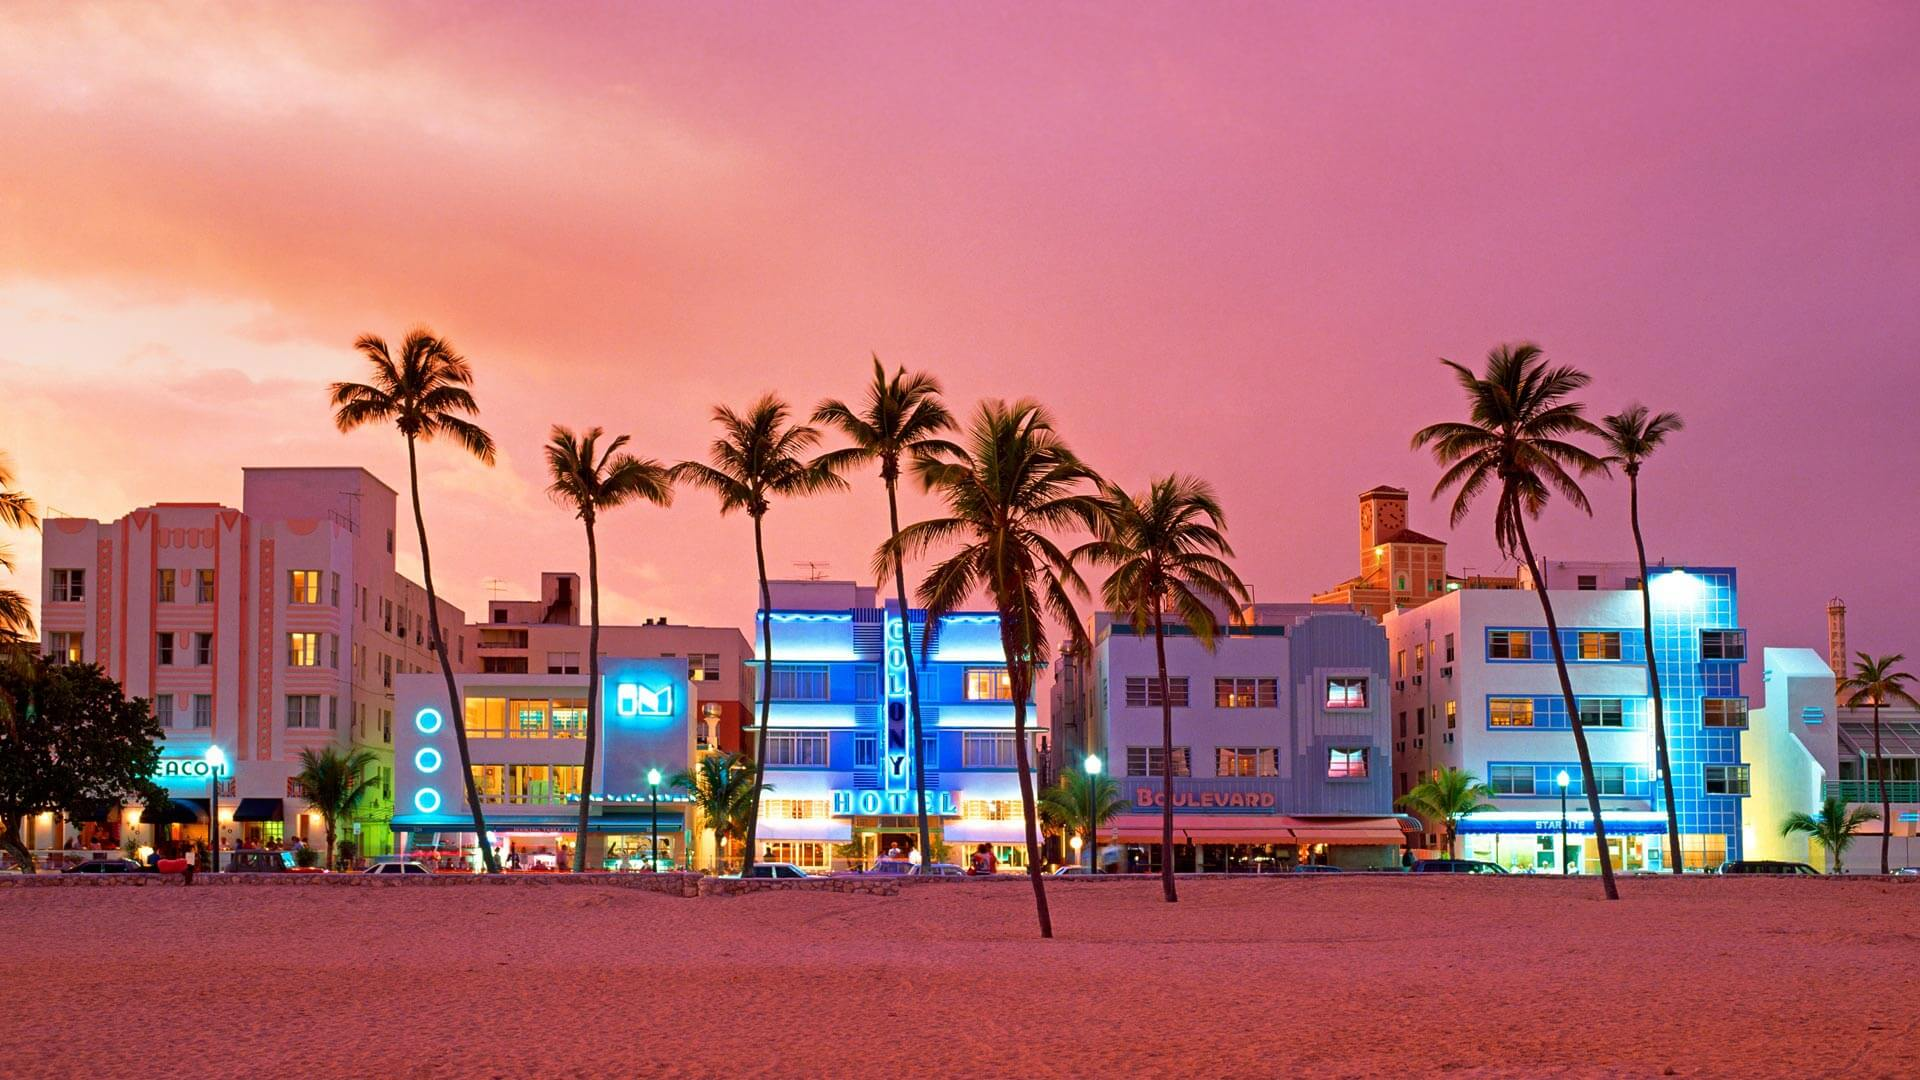
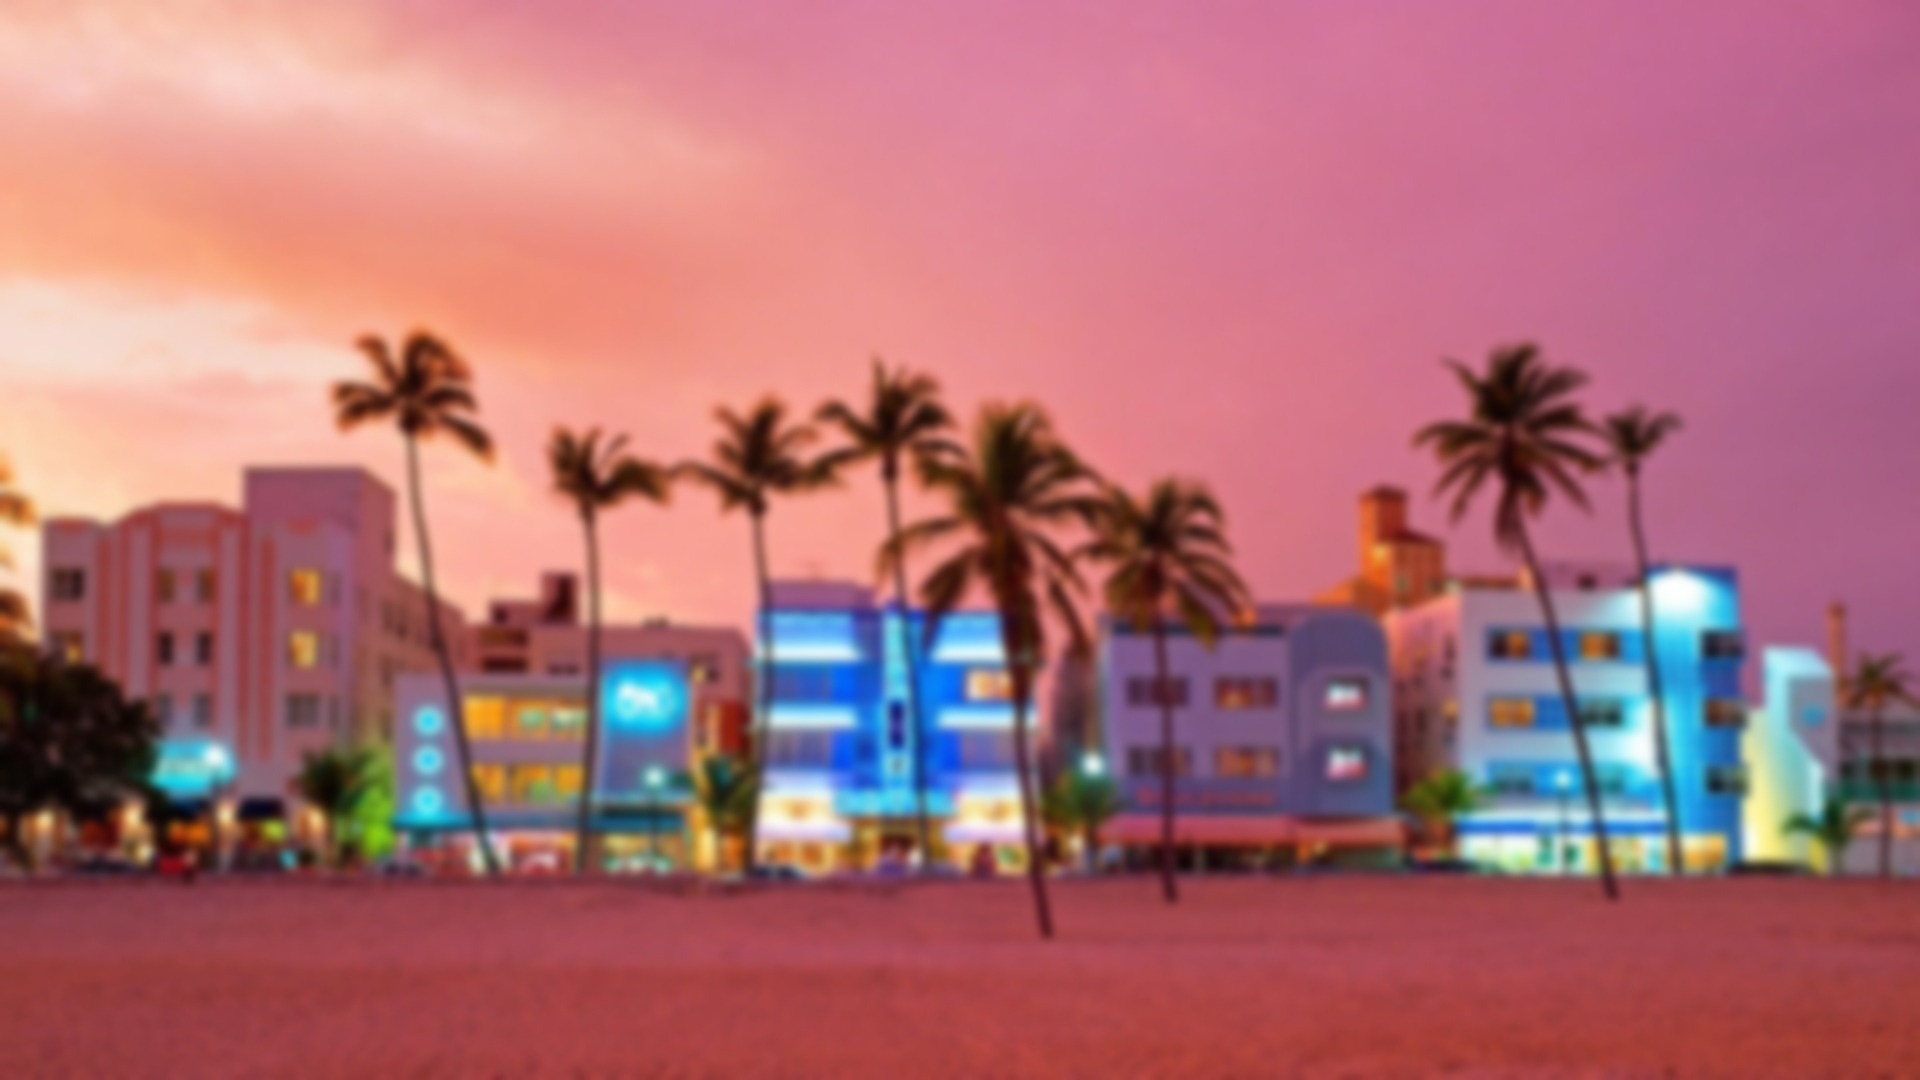
added bg-img to bio page and styled bio page

Changed region(s): [[0.0, 0.3056, 1.0, 0.8861], [0.0, 0.6722, 0.0312, 0.7028]]

diff --git a/index.css b/index.css
@@ -38,6 +38,28 @@ main {
     padding: 20px;
 }
 
+
+.bg-img {
+    /* The image used */
+    background-image: url("./assets/Miami.jpg");
+  
+    /* Add the blur effect */
+    /* filter: blur(8px); */
+    /* -webkit-filter: blur(8px); */
+
+    
+  
+    /* Full height */
+    height: 100vh;
+  
+    /* Center and scale the image nicely */
+    background-position: center;
+    background-repeat: no-repeat;
+    background-size: cover;
+}
+
+
+
 .title-name {
     font-family: 'Sacramento', cursive;
     text-align: center;
@@ -53,6 +75,7 @@ main {
     width: 350px;
     height: 450px;
     margin: 20px;
+    box-shadow: 2px 2px 2px 1px rgba(0, 0, 0, 0.2);
     /* border: 4px dashed red; */
 }
 .item-b {
@@ -60,11 +83,23 @@ main {
     width: 300px;
     height: 200px;
     margin: 20px;
+    color: wheat;
+    padding: 25px 25px;
+    background-color: #A53F40;
+    box-shadow: 2px 2px 2px 1px rgba(0, 0, 0, 0.2);
+}
+
+.item-b h2, .item-c h2 {
+    text-align: center;
 }
 .item-c {
     /* border: 4px dashed yellow; */
-    width: 200px;
+    width: 300px;
     margin: 20px;
+    color: wheat;
+    padding: 25px 25px 25px 25px;
+    background-color: #A53F40;
+    box-shadow: 2px 2px 2px 1px rgba(0, 0, 0, 0.2);
 }
 
 

diff --git a/index.html b/index.html
@@ -7,7 +7,7 @@
     <link href="https://fonts.googleapis.com/css2?family=Sacramento&display=swap" rel="stylesheet">
     <title>Bio Page</title>
 </head>
-<body>
+<body class="bg-img">
     <div id="mySidenav" class="sidenav">
             <a href="javascript:void(0)" class="closebtn" onclick="closeNav()">&times;</a>
             <a href="./index.html">Home</a>
@@ -25,11 +25,12 @@
                 </div>
                 <div class="flex">
                     <div class="item-b">
+                        <h2>Summary</h2>
                         <p>Hi, my name is Jessica Ulysse. I was born and raised in Miami, FL. I love spending time with my family. I'd like to think of myself as the R&B connoisseur, as well as a lover of food(all types, I'm not picky).</p>
                     </div>
                     
                     <div class="item-c">
-                        <h3>Hobbies:</h3>
+                        <h2>Hobbies:</h2>
                         <ul>
                             <li>Listening to music</li>
                             <li>Watching True Crime Documentaries</li>
